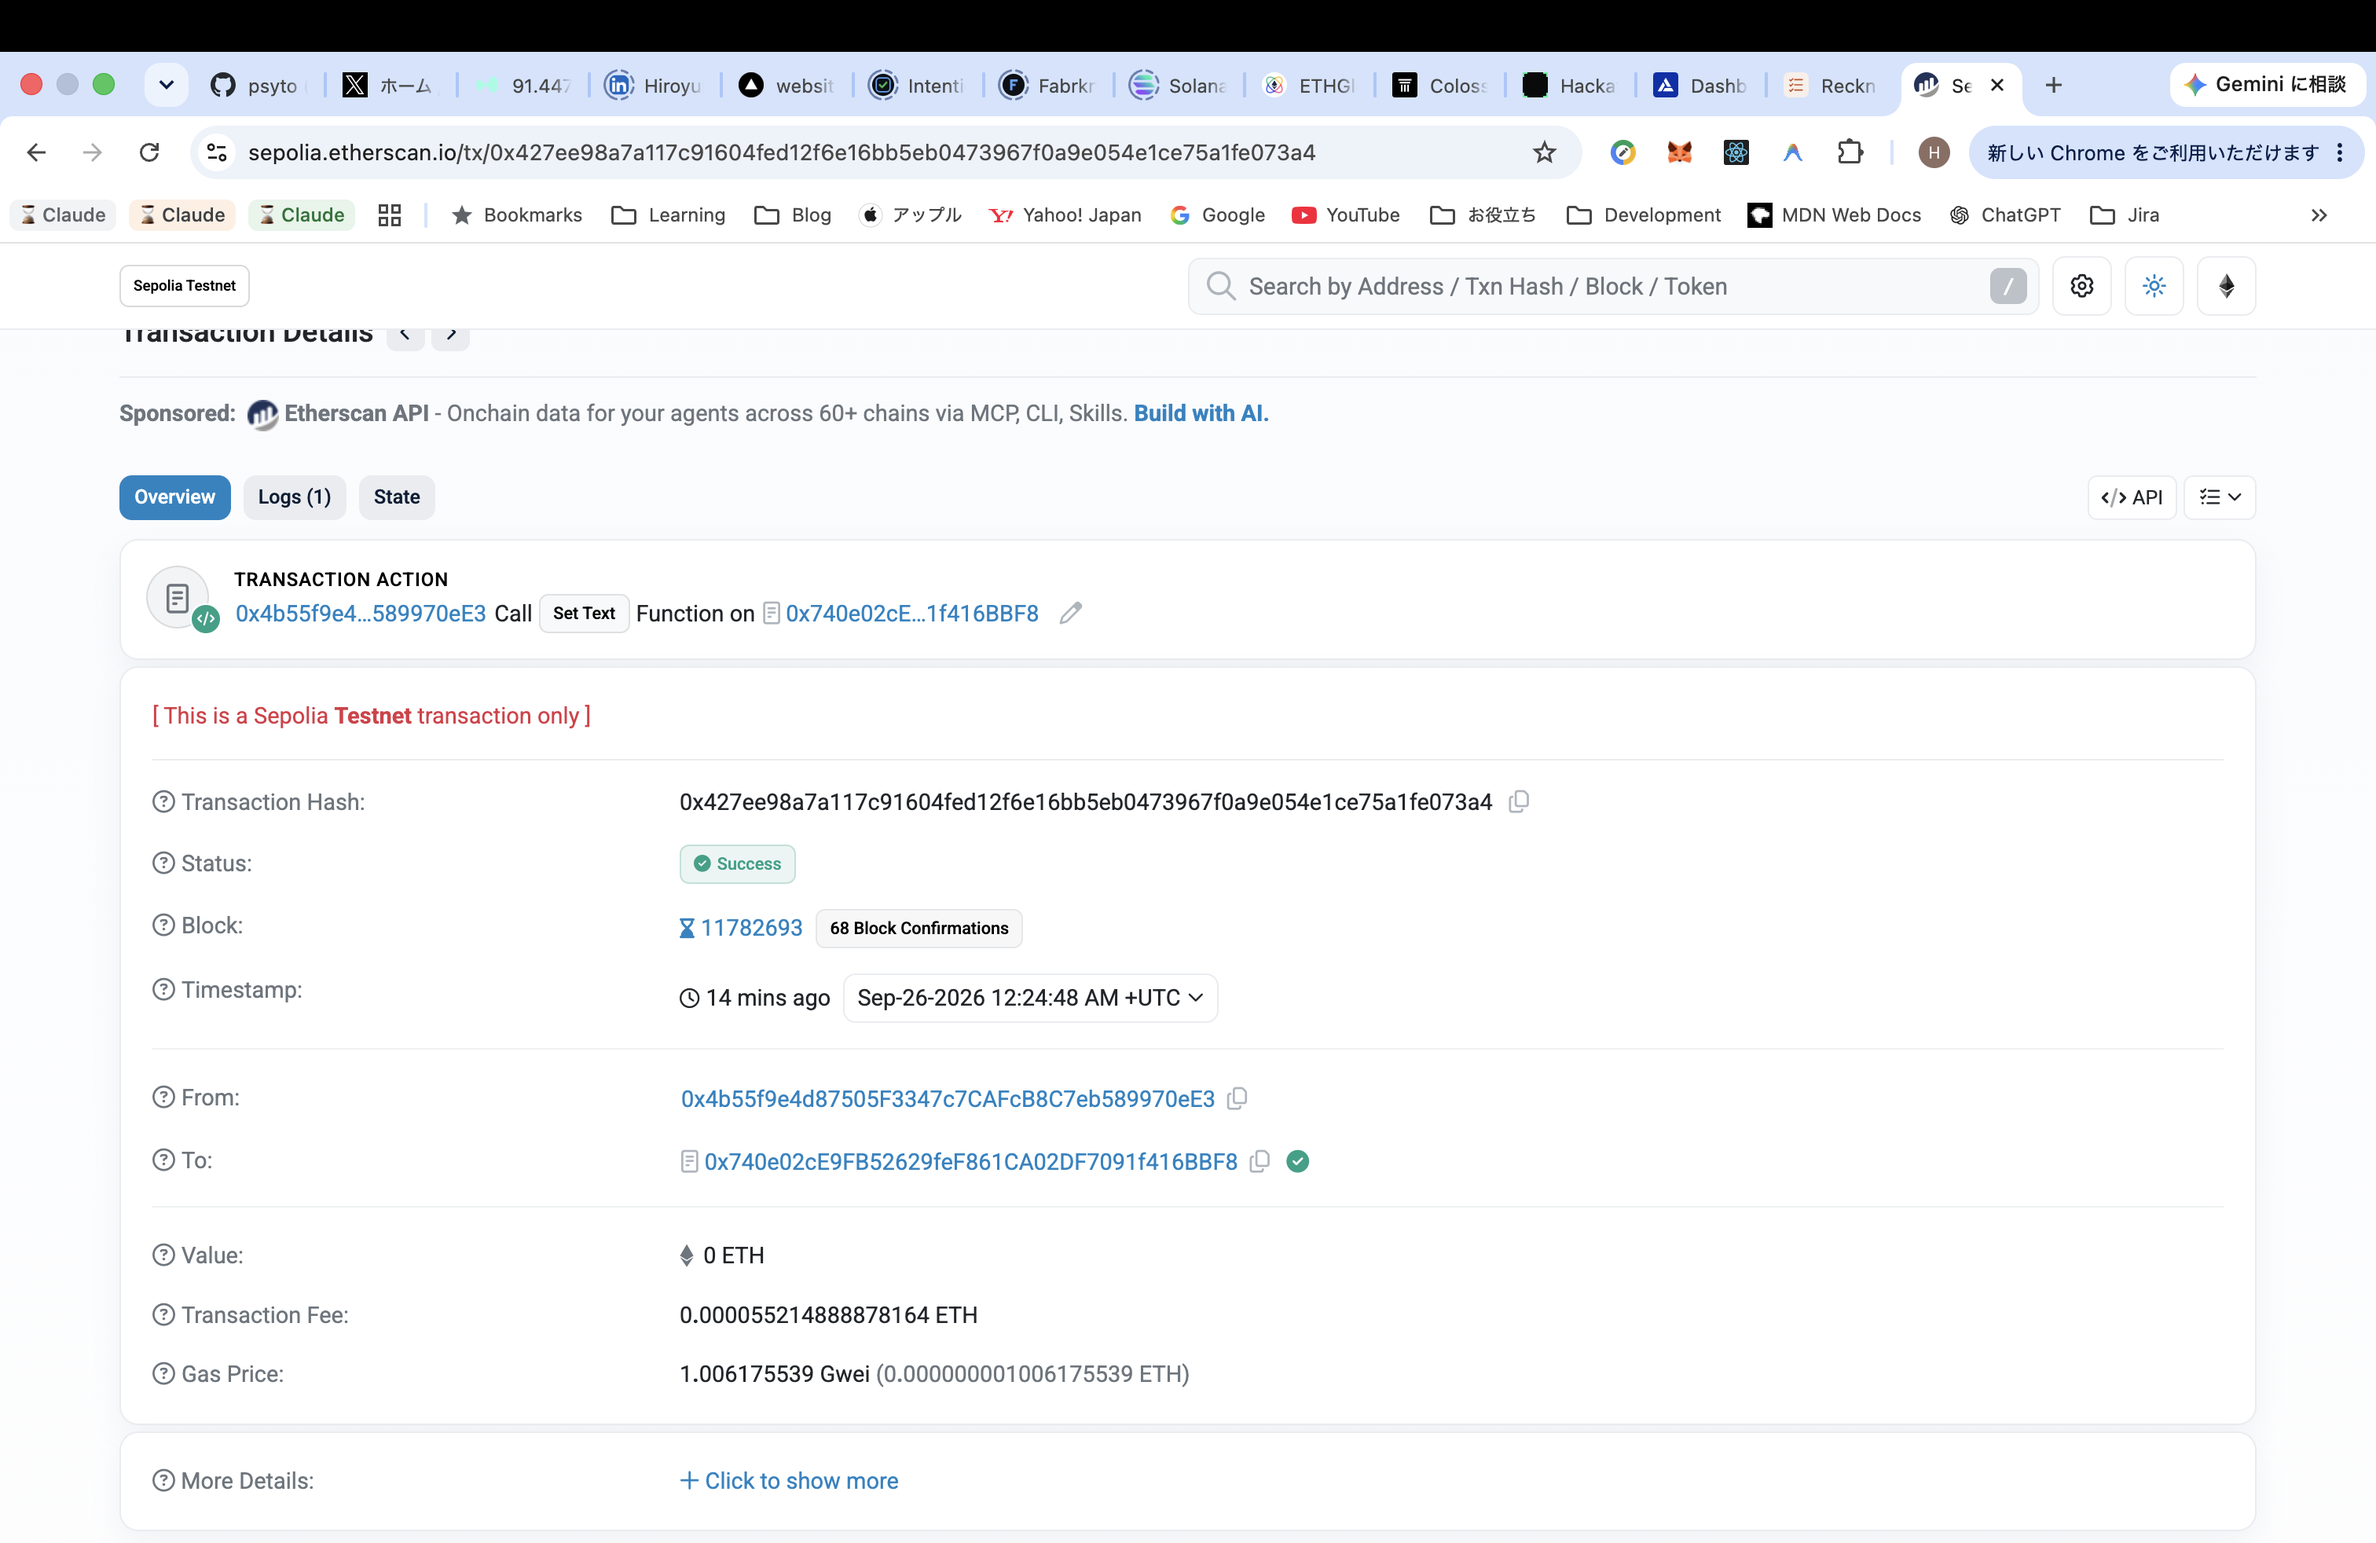
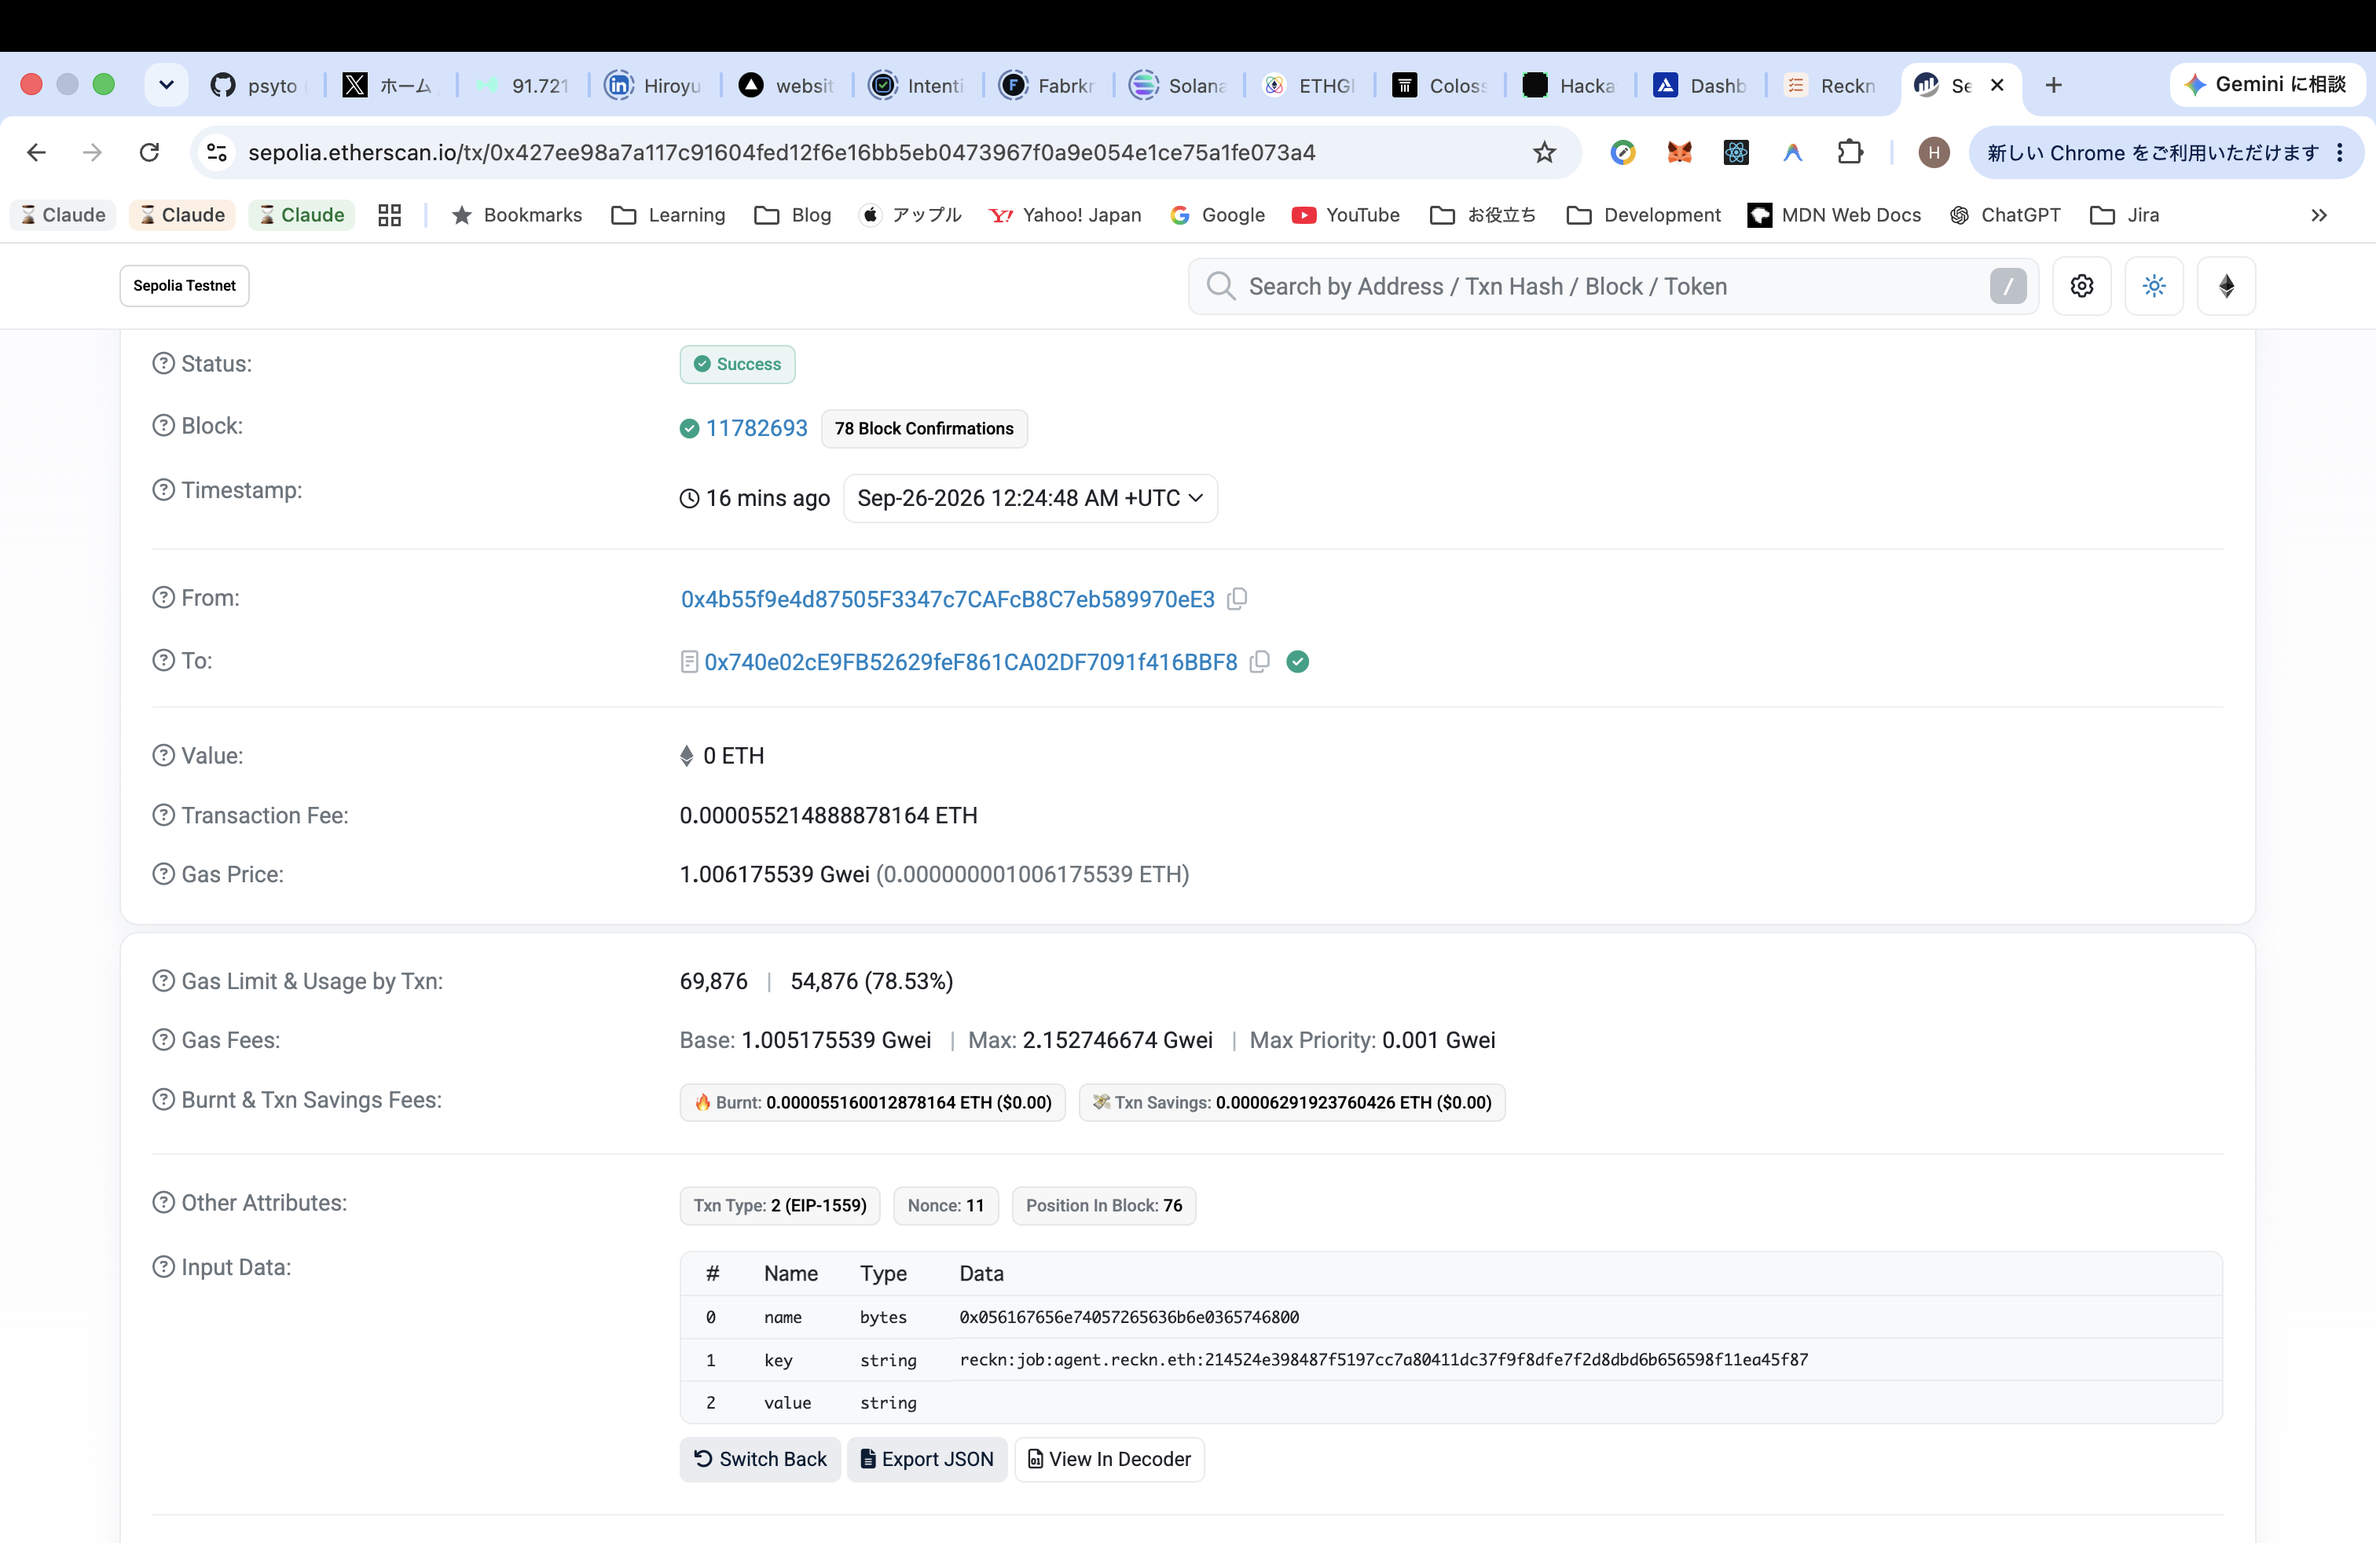
tokyo: the clear, decoded, so the frame carries its own evidence
The summary view could not show it: a Set Text that writes and one that
erases are the same picture, and the difference lives in the input data.
Etherscan's decoded table shows key = reckn:job:agent.reckn.eth:214524e3
and value = empty, in one frame.

Two frames were taken before this one and are not kept -- the raw input
data box, cut off above the word that mattered. It showed the ABI
offsets and the DNS name, not the value, and a frame that looks like
evidence without being any is worse than no frame.

The note in RECEIPTS.md is rewritten rather than dropped: it now says
why that frame is decoded and the write above it is not.

diff --git a/docs/tokyo-2026/RECEIPTS.md b/docs/tokyo-2026/RECEIPTS.md
@@ -217,7 +217,7 @@ no-op and would prove nothing.
 
 ![The same swap, now Success, with two ERC-20 transfers: 1 Reckn Demo B out and 0.987158034 Reckn Demo A back.](media/beat5-03-swap-executes.png)
 
-![The buyer clears the record -- Set Text again, this time with an empty value.](media/beat5-04-record-cleared.png)
+![The buyer clears the record. Etherscan's decoded input data: name, then key = reckn:job:agent.reckn.eth:214524e3..., then value = empty.](media/beat5-04-record-cleared.png)
 
 ![The same swap once more: Fail.](media/beat5-05-refused-again.png)
 
@@ -225,10 +225,12 @@ no-op and would prove nothing.
 same router, same pool, same amounts. Between them sit the two writes, and nothing else changed
 — and the record could only be written because a job was re-executed, reproduced and settled.
 
-**One honest note about the frames.** Etherscan renders the write and the clear identically:
-both are `Set Text` from the buyer to our resolver, both succeed. What separates them is the
-value, which lives in the input data and is not on the overview. The captions carry that, the
-frames do not.
+**The clear is shown decoded, because the overview cannot show it.** A `Set Text` that writes
+and a `Set Text` that erases are the same picture on etherscan's summary — same sender, same
+resolver, same green `Success`. The difference is the value, and the value is in the input data.
+So that frame is the decoded table, where `value` is visibly empty and `key` visibly carries the
+name it belongs to. The write above it is still the summary view; its content is not in that
+frame, it is in beat 3, where ENS reads the record back.
 
 #### The transactions
 
